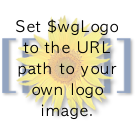
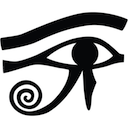
Added LocalSettings

diff --git a/LocalSettings.php b/LocalSettings.php
@@ -1,0 +1,149 @@
+<?php
+# This file was automatically generated by the MediaWiki 1.23.6
+# installer. If you make manual changes, please keep track in case you
+# need to recreate them later.
+#
+# See includes/DefaultSettings.php for all configurable settings
+# and their default values, but don't forget to make changes in _this_
+# file, not there.
+#
+# Further documentation for configuration settings may be found at:
+# https://www.mediawiki.org/wiki/Manual:Configuration_settings
+
+# Protect against web entry
+if ( !defined( 'MEDIAWIKI' ) ) {
+	exit;
+}
+
+## Uncomment this to disable output compression
+# $wgDisableOutputCompression = true;
+
+$wgSitename = "OJO-Wiki";
+
+## The URL base path to the directory containing the wiki;
+## defaults for all runtime URL paths are based off of this.
+## For more information on customizing the URLs
+## (like /w/index.php/Page_title to /wiki/Page_title) please see:
+## https://www.mediawiki.org/wiki/Manual:Short_URL
+$wgScriptPath = "";
+$wgScriptExtension = ".php";
+
+## The protocol and server name to use in fully-qualified URLs
+$wgServer = "http://ojo-wiki.herokuapp.com";
+
+## The relative URL path to the skins directory
+$wgStylePath = "$wgScriptPath/skins";
+
+## The relative URL path to the logo.  Make sure you change this from the default,
+## or else you'll overwrite your logo when you upgrade!
+$wgLogo = "$wgStylePath/common/images/wiki.png";
+
+## UPO means: this is also a user preference option
+
+$wgEnableEmail = true;
+$wgEnableUserEmail = true; # UPO
+
+$wgEmergencyContact = "pat@cappelaere.com";
+$wgPasswordSender = "pat@cappelaere.com";
+
+$wgEnotifUserTalk = true; # UPO
+$wgEnotifWatchlist = true; # UPO
+$wgEmailAuthentication = true;
+
+## Database settings
+$_wgDBConnectionString = getenv('DATABASE_URL');
+if (preg_match('%(.*?)://([^:]+):([^@]+)@([^:]+):(\d+)/(.*)%', $_wgDBConnectionString, $regs, PREG_OFFSET_CAPTURE)) {
+$wgDBtype = $regs[1][0];
+$wgDBuser = $regs[2][0];
+$wgDBpassword = $regs[3][0];
+$wgDBserver = $regs[4][0];
+$wgDBport = $regs[5][0];
+$wgDBname = $regs[6][0];
+} else {
+die("Failed to parse DB connection string");
+}
+
+# Postgres specific settings
+$wgDBmwschema = "mediawiki";
+
+## Shared memory settings
+$wgMainCacheType = CACHE_NONE;
+$wgMemCachedServers = array();
+
+## To enable image uploads, make sure the 'images' directory
+## is writable, then set this to true:
+$wgEnableUploads = false;
+$wgUseImageMagick = true;
+$wgImageMagickConvertCommand = "/usr/bin/convert";
+
+# InstantCommons allows wiki to use images from http://commons.wikimedia.org
+$wgUseInstantCommons = false;
+
+## If you use ImageMagick (or any other shell command) on a
+## Linux server, this will need to be set to the name of an
+## available UTF-8 locale
+$wgShellLocale = "en_US.utf8";
+
+## If you want to use image uploads under safe mode,
+## create the directories images/archive, images/thumb and
+## images/temp, and make them all writable. Then uncomment
+## this, if it's not already uncommented:
+#$wgHashedUploadDirectory = false;
+
+## Set $wgCacheDirectory to a writable directory on the web server
+## to make your wiki go slightly faster. The directory should not
+## be publically accessible from the web.
+#$wgCacheDirectory = "$IP/cache";
+
+# Site language code, should be one of the list in ./languages/Names.php
+$wgLanguageCode = "en";
+
[1 lines of base64/hex data omitted]
+
+# Site upgrade key. Must be set to a string (default provided) to turn on the
+# web installer while LocalSettings.php is in place
+$wgUpgradeKey = "3e8a2734275e53a0";
+
+## Default skin: you can change the default skin. Use the internal symbolic
+## names, ie 'cologneblue', 'monobook', 'vector':
+$wgDefaultSkin = "vector";
+
+## For attaching licensing metadata to pages, and displaying an
+## appropriate copyright notice / icon. GNU Free Documentation
+## License and Creative Commons licenses are supported so far.
+$wgRightsPage = ""; # Set to the title of a wiki page that describes your license/copyright
+$wgRightsUrl = "";
+$wgRightsText = "";
+$wgRightsIcon = "";
+
+# Path to the GNU diff3 utility. Used for conflict resolution.
+$wgDiff3 = "/usr/bin/diff3";
+
+# The following permissions were set based on your choice in the installer
+$wgGroupPermissions['*']['createaccount'] = false;
+$wgGroupPermissions['*']['edit'] = false;
+
+# Enabled Extensions. Most extensions are enabled by including the base extension file here
+# but check specific extension documentation for more details
+# The following extensions were automatically enabled:
+require_once "$IP/extensions/Cite/Cite.php";
+require_once "$IP/extensions/ConfirmEdit/ConfirmEdit.php";
+require_once "$IP/extensions/Gadgets/Gadgets.php";
+require_once "$IP/extensions/ImageMap/ImageMap.php";
+require_once "$IP/extensions/InputBox/InputBox.php";
+require_once "$IP/extensions/Interwiki/Interwiki.php";
+require_once "$IP/extensions/LocalisationUpdate/LocalisationUpdate.php";
+require_once "$IP/extensions/Nuke/Nuke.php";
+require_once "$IP/extensions/ParserFunctions/ParserFunctions.php";
+require_once "$IP/extensions/PdfHandler/PdfHandler.php";
+require_once "$IP/extensions/Poem/Poem.php";
+require_once "$IP/extensions/Renameuser/Renameuser.php";
+require_once "$IP/extensions/SpamBlacklist/SpamBlacklist.php";
+require_once "$IP/extensions/SyntaxHighlight_GeSHi/SyntaxHighlight_GeSHi.php";
+require_once "$IP/extensions/TitleBlacklist/TitleBlacklist.php";
+require_once "$IP/extensions/WikiEditor/WikiEditor.php";
+
+
+# End of automatically generated settings.
+# Add more configuration options below.
+
